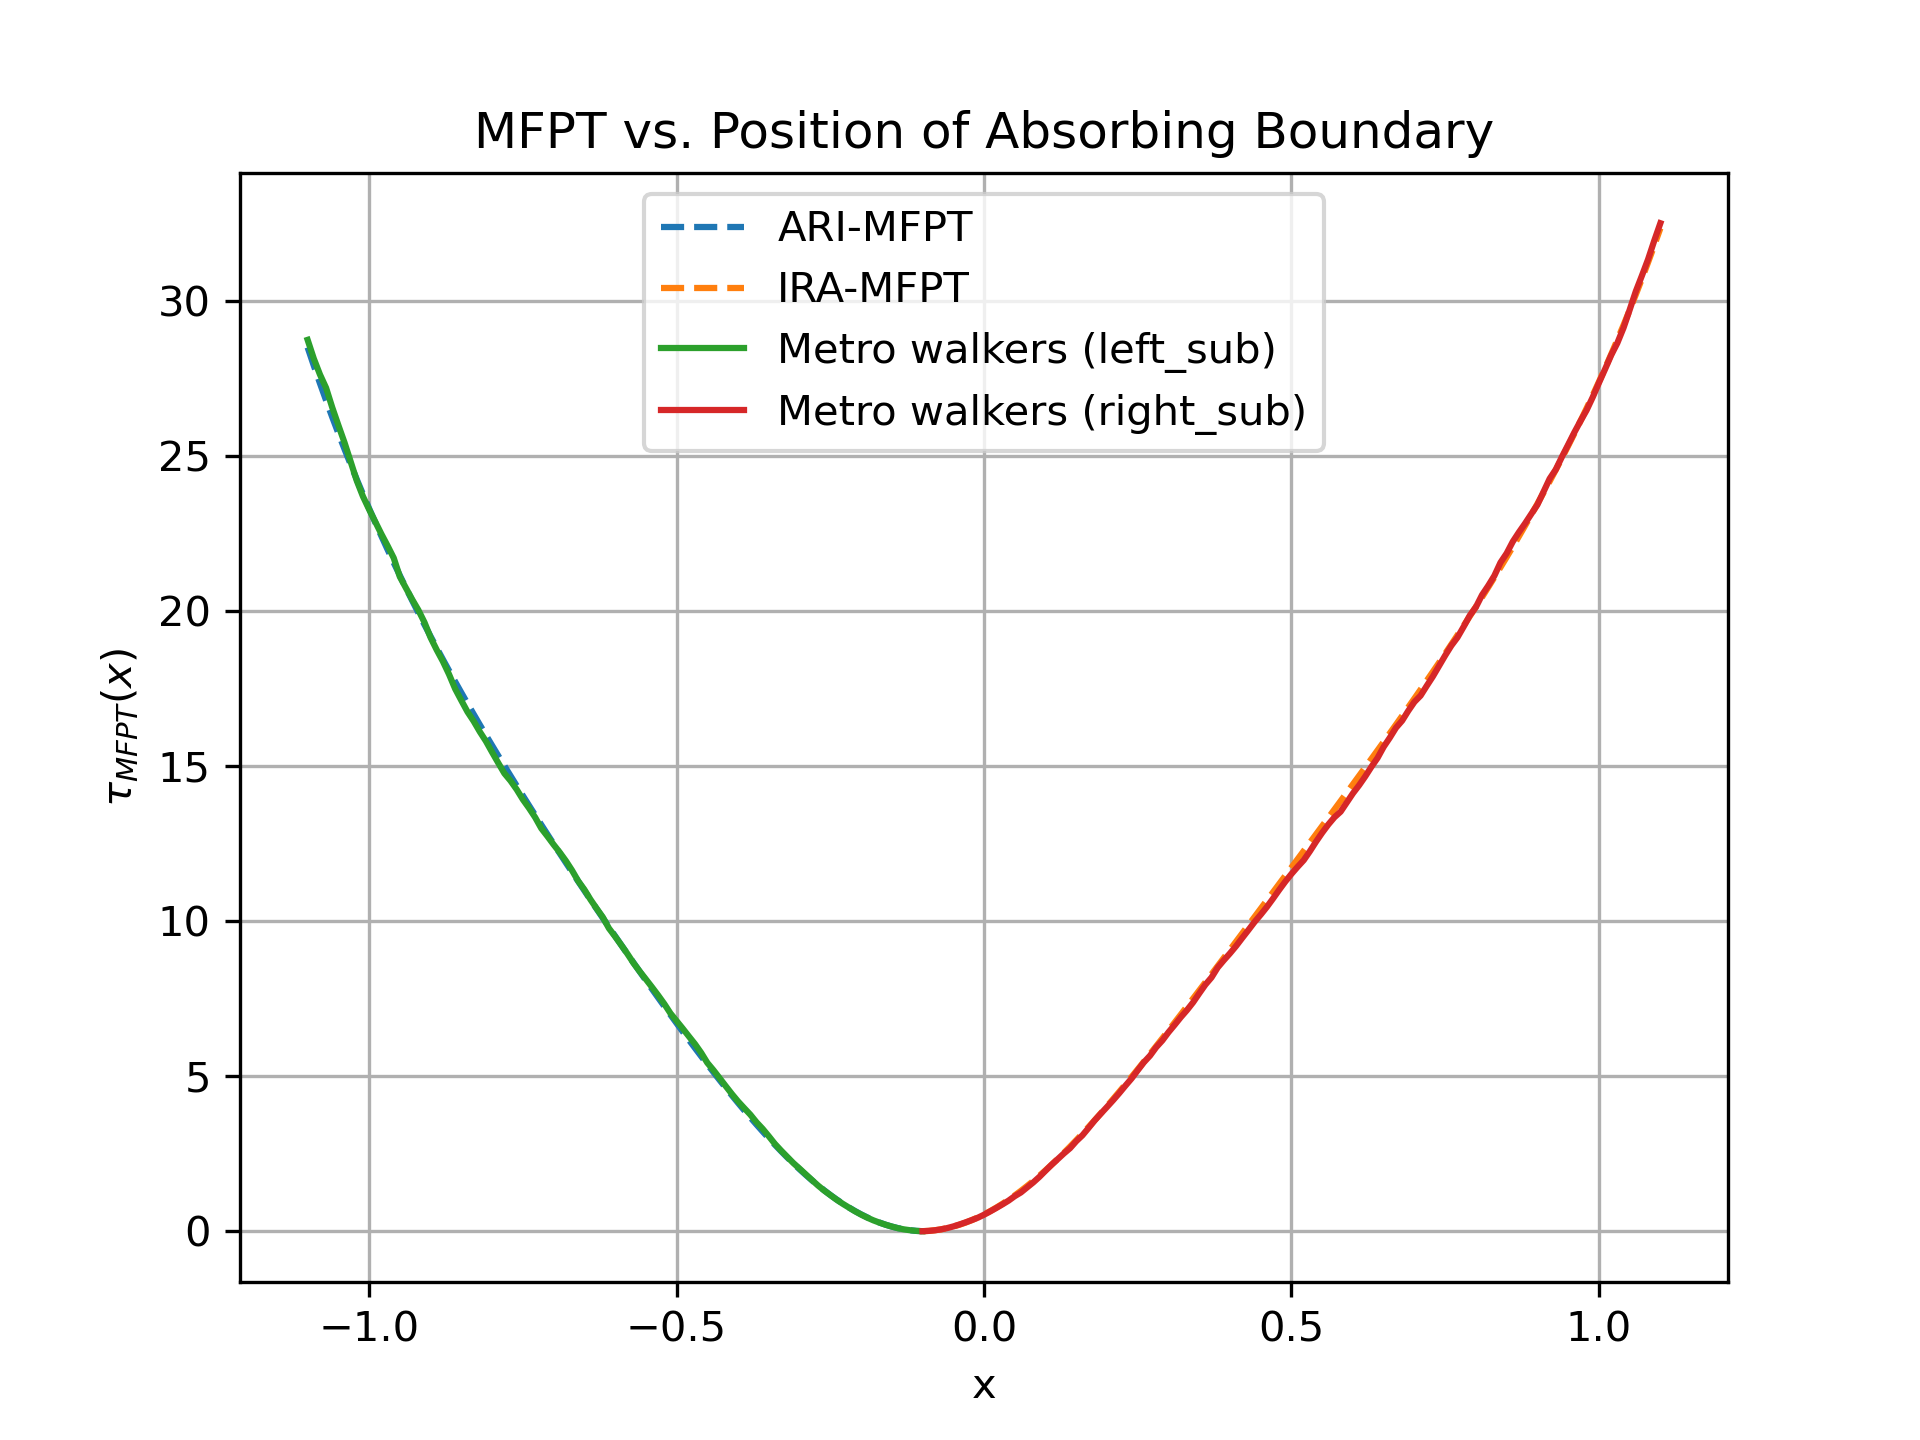
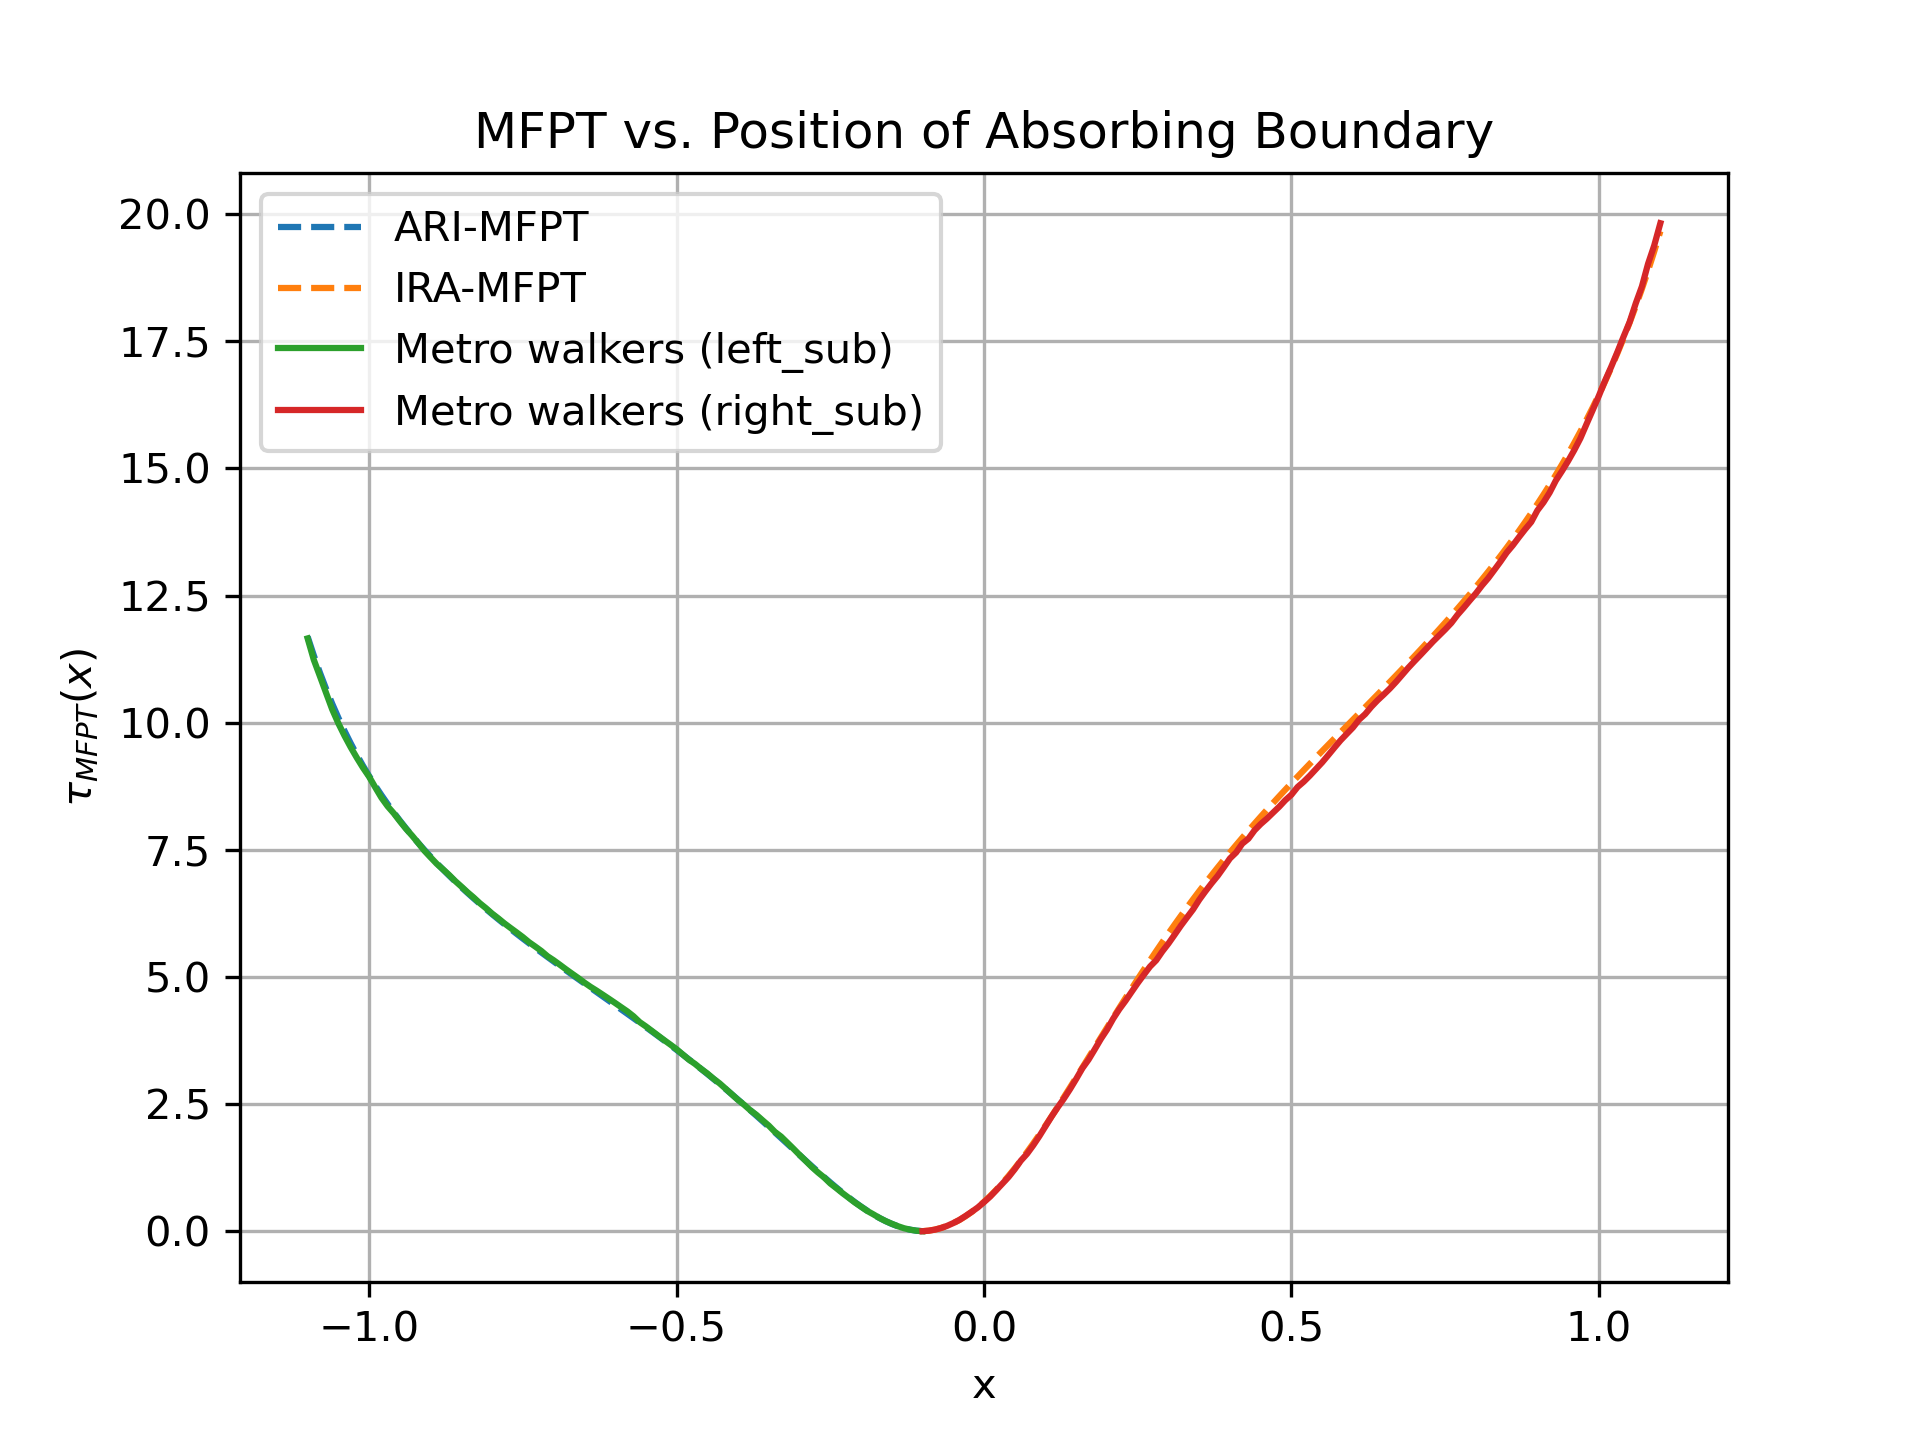
Frugal top-start method simulation script, data, and graphs for random walk with medium energy barrier

diff --git a/Top_start_method/Random_walk_Model/Frugal_verison/frugal_top_start_reconst_simulation.py b/Top_start_method/Random_walk_Model/Frugal_verison/frugal_top_start_reconst_simulation.py
@@ -6,8 +6,8 @@ from scipy.integrate import quad
 from scipy.interpolate import interp1d, PchipInterpolator, CubicSpline
 
 # Define the double-well potential using two Gaussian functions
-def double_gaussian_potential(x, A1=3, mu1=-1, sigma1=0.5, A2=4, mu2=1, sigma2=0.6):
-# def double_gaussian_potential(x, A1=12, mu1=-1, sigma1=0.5, A2=10, mu2=1, sigma2=0.6):
+# def double_gaussian_potential(x, A1=3, mu1=-1, sigma1=0.5, A2=4, mu2=1, sigma2=0.6):
+def double_gaussian_potential(x, A1=12, mu1=-1, sigma1=0.5, A2=10, mu2=1, sigma2=0.6):
 # def double_gaussian_potential(x, A1=30, mu1=-1, sigma1=0.5, A2=25, mu2=1, sigma2=0.6):
     V1 = A1 * np.exp(-((x - mu1)**2) / (2 * sigma1**2))
     V2 = A2 * np.exp(-((x - mu2)**2) / (2 * sigma2**2))
